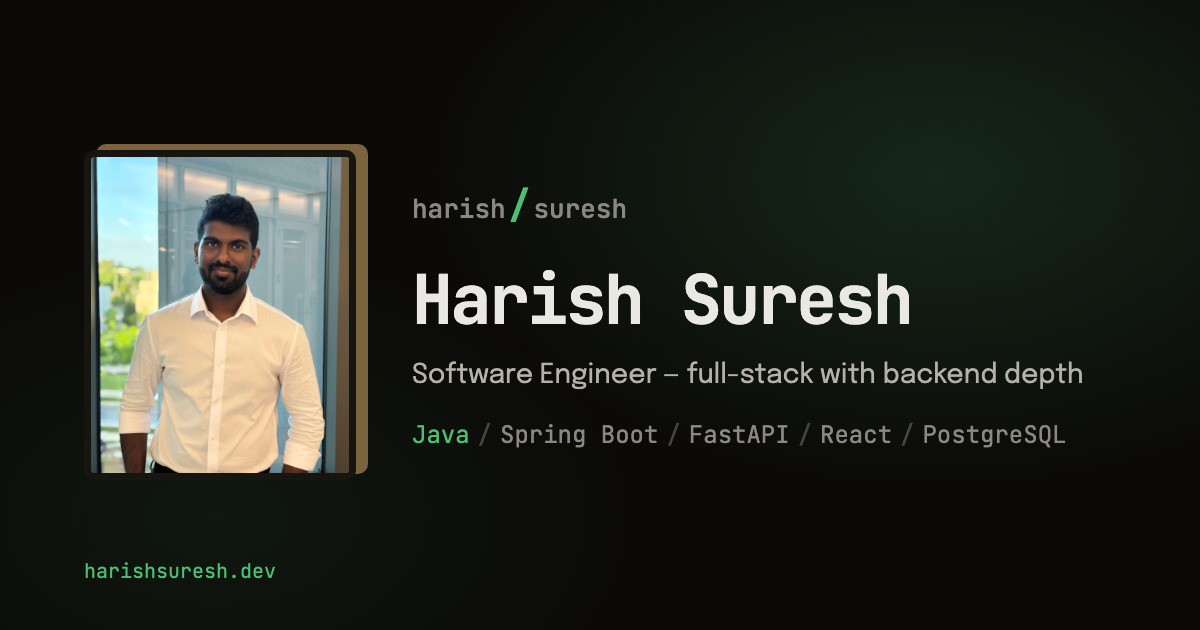
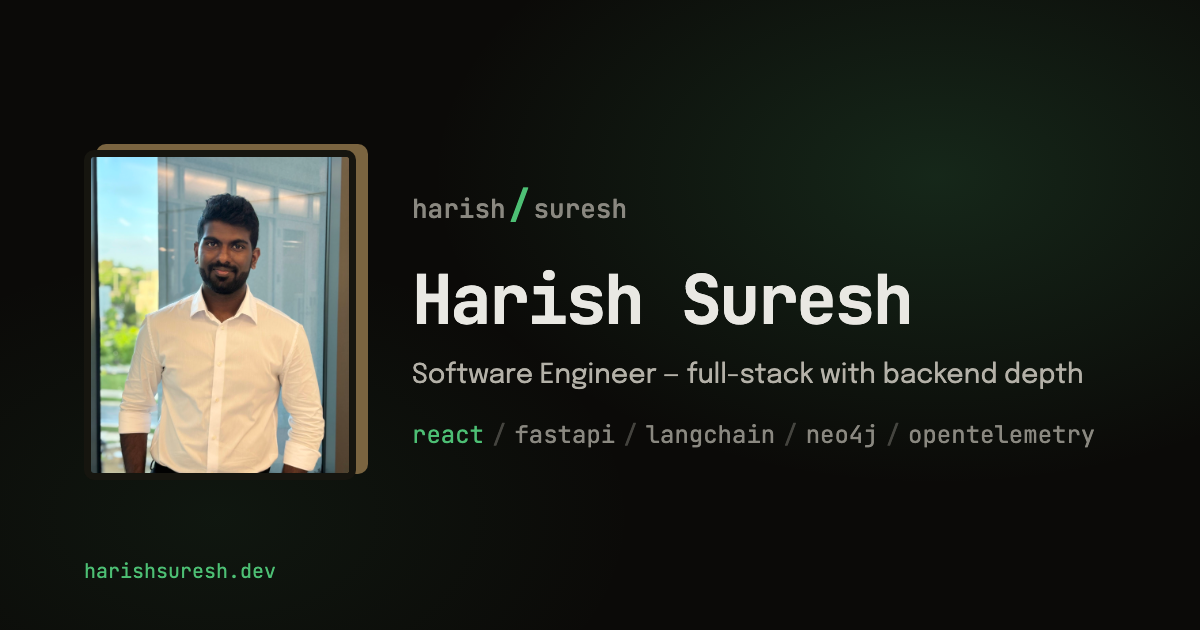
Heavier hero keywords and tags, 2+ yrs badge, fix timeline rail
Hero: the keyword row was java / python / typescript / react / postgres,
which undersold the work. It is now react / fastapi / langchain / neo4j /
opentelemetry, every one of which is named in an experience bullet. The
badge gains "2+ yrs" (Sify ~23 months plus Heartland ~3 months is ~2.2
years of professional work; 2.5 would need the 2020 internship and
ignoring a two-year gap, so it says 2+).

Below 800px both hero rows break at a chosen separator; at 768px they were
stranding a "/" and a "·" at line ends. The 800 boundary was measured.

Experience: each job's right-hand tag list now names the heavier tech its
bullets already mention (Qdrant, OpenTelemetry, Spring Security, NETCONF,
SNMP and so on) instead of six headline tools. The first job's rail used to
poke above its own node, so the timeline looked like it started in
mid-air; it now begins at the node.

assets/og.png is regenerated so its stack row matches the hero.

Changed region(s): [[0.3392, 0.6635, 0.925, 0.7238]]

diff --git a/index.html b/index.html
@@ -625,7 +625,7 @@
       /* Phones: both hero rows wrap, and left alone they wrap wherever they
          like and strand a separator at the end of a line. .wrap-here marks
          the one separator that becomes a full-width, invisible line break. */
-      @media (max-width: 680px) {
+      @media (max-width: 800px) {
         .hero .wrap-here {
           flex-basis: 100%;
           height: 0;
@@ -912,6 +912,8 @@
         flex-direction: column;
       }
       .job {
+        --node-y: calc(clamp(19px, 2vw, 26px) * 0.8);
+        --rail-c: var(--rail);
         position: relative;
         border-left: 2px solid var(--rail);
         padding: 0 0 56px 30px;
@@ -921,7 +923,18 @@
         padding-bottom: 0;
       }
       .job.is-current {
+        --rail-c: var(--accent);
         border-left-color: var(--accent);
+      }
+      /* The first job's rail used to poke ~20px above its own node, so the
+         timeline appeared to start in mid-air. Begin it at the node's centre. */
+      .job:first-child {
+        border-image: linear-gradient(
+            to bottom,
+            transparent var(--node-y),
+            var(--rail-c) var(--node-y)
+          )
+          1;
       }
       .job::before {
         content: "";
@@ -1093,6 +1106,9 @@
         }
         .job {
           padding-left: 20px;
+        }
+        .job {
+          --node-y: 14px;
         }
         .job::before {
           top: 7px;
@@ -1614,7 +1630,7 @@
             </div>
             <div class="hero-content">
               <div class="hero-badge">
-                // software engineer · open to SDE roles
+                // software engineer · 2+ yrs · open to SDE roles
               </div>
               <h1>Harish Suresh</h1>
               <div class="hero-meta">
@@ -1635,11 +1651,12 @@
                 </span>
               </p>
               <p class="hero-stack">
-                <span>java</span><span class="sep" aria-hidden="true">/</span
-                ><span>python</span><span class="sep" aria-hidden="true">/</span
-                ><span>typescript</span><span class="sep wrap-here" aria-hidden="true">/</span
-                ><span>react</span><span class="sep" aria-hidden="true">/</span
-                ><span>postgres</span>
+                <span>react</span><span class="sep" aria-hidden="true">/</span
+                ><span>fastapi</span><span class="sep" aria-hidden="true">/</span
+                ><span>langchain</span
+                ><span class="sep wrap-here" aria-hidden="true">/</span
+                ><span>neo4j</span><span class="sep" aria-hidden="true">/</span
+                ><span>opentelemetry</span>
               </p>
               <div class="cta-row">
                 <a class="btn btn-primary" href="resume.pdf" download
@@ -1819,12 +1836,17 @@
                 </li>
               </ul>
               <div class="tag-row">
-                <span class="tag">React</span>
-                <span class="tag">TypeScript</span>
                 <span class="tag">FastAPI</span>
                 <span class="tag">PostgreSQL</span>
                 <span class="tag">Celery</span>
+                <span class="tag">Redis</span>
+                <span class="tag">Qdrant</span>
                 <span class="tag">LangChain</span>
+                <span class="tag">OpenTelemetry</span>
+                <span class="tag">FFmpeg</span>
+                <span class="tag">S3</span>
+                <span class="tag">React</span>
+                <span class="tag">TypeScript</span>
               </div>
             </article>
 
@@ -1869,9 +1891,15 @@
               <div class="tag-row">
                 <span class="tag">Java</span>
                 <span class="tag">Spring Boot</span>
+                <span class="tag">Spring Security</span>
+                <span class="tag">OAuth 2.0</span>
+                <span class="tag">JPA/Hibernate</span>
                 <span class="tag">Neo4j</span>
+                <span class="tag">SNMP</span>
+                <span class="tag">NETCONF</span>
                 <span class="tag">Redis</span>
                 <span class="tag">Jenkins</span>
+                <span class="tag">Docker</span>
                 <span class="tag">AWS</span>
               </div>
             </article>
@@ -1904,6 +1932,7 @@
                 <span class="tag">Redux</span>
                 <span class="tag">Node.js</span>
                 <span class="tag">MongoDB</span>
+                <span class="tag">JWT</span>
               </div>
             </article>
           </div>

diff --git a/tools/og.html b/tools/og.html
@@ -105,10 +105,10 @@
         <h1>Harish Suresh</h1>
         <div class="role">Software Engineer — full-stack with backend depth</div>
         <div class="stack">
-          <b>Java</b><span class="sep">/</span>Spring Boot<span class="sep">/</span>FastAPI<span
+          <b>react</b><span class="sep">/</span>fastapi<span class="sep">/</span>langchain<span
             class="sep"
             >/</span
-          >React<span class="sep">/</span>PostgreSQL
+          >neo4j<span class="sep">/</span>opentelemetry
         </div>
       </div>
       <div class="domain">harishsuresh.dev</div>

diff --git a/Claude.md b/Claude.md
@@ -78,14 +78,27 @@ not part of the site.
   reduced motion both show a complete sentence. Screen readers get the full
   list once from an `.sr-only` span; the animated copy is `aria-hidden`.
 - There is NO prose summary in the hero. Under the cycler sits `.hero-stack`,
-  a static lowercase mono row: java / python / typescript / react / postgres.
-  It keeps the core tech names on the first screen for recruiters without a
-  sentence. Harish rejected the prose line ("Full-stack, deepest in the
+  a static lowercase mono row: react / fastapi / langchain / neo4j /
+  opentelemetry. It keeps recognisable tech names on the first screen for
+  recruiters without a sentence. Harish rejected the first version (java /
+  python / typescript / react / postgres) on 2026-09-24 as "simple" — the row
+  should carry the heavier things he has actually shipped, and every name in
+  it must appear in an experience bullet or tag below. `tools/og.html` carries
+  the same row; keep them in step. Harish rejected the prose line ("Full-stack, deepest in the
   backend. React and TypeScript in front…") on 2026-09-24 — don't bring a
   sentence back. It must stay static; the cycler is the only moving thing.
-- On phones the hero's two wrapping rows (meta, keyword row) break at a
+- Below 800px the hero's two wrapping rows (meta, keyword row) break at a
   chosen separator marked `.wrap-here`, which becomes a full-width invisible
   line break. Left to wrap freely they stranded a `·` or `/` at a line end.
+  800 is measured, not guessed: both rows wrap up to ~760px and fit on one
+  line from 820px. If you lengthen either row, re-run that sweep.
+- The hero badge says "2+ yrs". CLAUDE.md used to ban an "N+ years" badge as
+  an invented metric; Harish asked for one on 2026-09-24 and it is now
+  allowed, but ONLY as "2+". The honest arithmetic: Sify Aug 2022-Jul 2024
+  (~23 months) + Heartland from Jun 2026 (~3+ months) = ~2.2 years of
+  professional work. "2.5+" only works by also counting the 3-month 2020
+  Sirius internship and ignoring the two-year gap in between, so don't round
+  up. "2+" stays true from now on; a bigger number needs recomputing.
 - The alternation STARTS banded: hero, experience and education carry `.band`.
   Adding, removing or reordering a section means re-striping all of them, or
   two same-coloured sections end up adjacent. The nav is tinted from `--bg`,
@@ -104,7 +117,11 @@ not part of the site.
   (experience and projects both).
 - Experience is a continuous timeline. `.job` carries a 2px `--rail` left
   border (accent on the current role) and a 14px node in `::before`, hollow
-  for past roles and filled for the current one. Jobs are spaced with
+  for past roles and filled for the current one. The green segment IS the
+  current role's span — that colour change is deliberate, not a stuck line.
+  The first job's rail begins at its node's centre (`--node-y` via a
+  `border-image` gradient); it used to poke ~20px above the node, so the
+  timeline looked like it started in mid-air. Jobs are spaced with
   padding-bottom, not flex gap, so each job's rail runs into the next. The
   old rail was `--border-strong` at 1.6:1 — invisible — which left past roles
   indented for no visible reason. `--rail` is #66625A dark / #8F8676 light,
@@ -113,6 +130,12 @@ not part of the site.
   left and the tag row takes the right column under a CSS-generated
   `// stack` label, filling the space the measure cap used to leave empty.
   Below that, tags fall back under the bullets.
+- The per-job tags list the HEAVIER tech each job's bullets actually name, not
+  just the headline languages: Heartland 11 (FastAPI, PostgreSQL, Celery,
+  Redis, Qdrant, LangChain, OpenTelemetry, FFmpeg, S3, React, TypeScript),
+  Sify 12 (incl. Spring Security, OAuth 2.0, JPA/Hibernate, SNMP, NETCONF,
+  Neo4j, Docker), Sirius 5. Harish called the first pass "very very basic" and
+  said it undersold the work. Every tag must be named in that job's bullets.
 - The hero meta says "MS CS, Indiana University" where `#education` and the
   JSON-LD carry the full degree and "Indiana University Bloomington" —
   shortened so the smallest type in the hero doesn't make its longest line.
